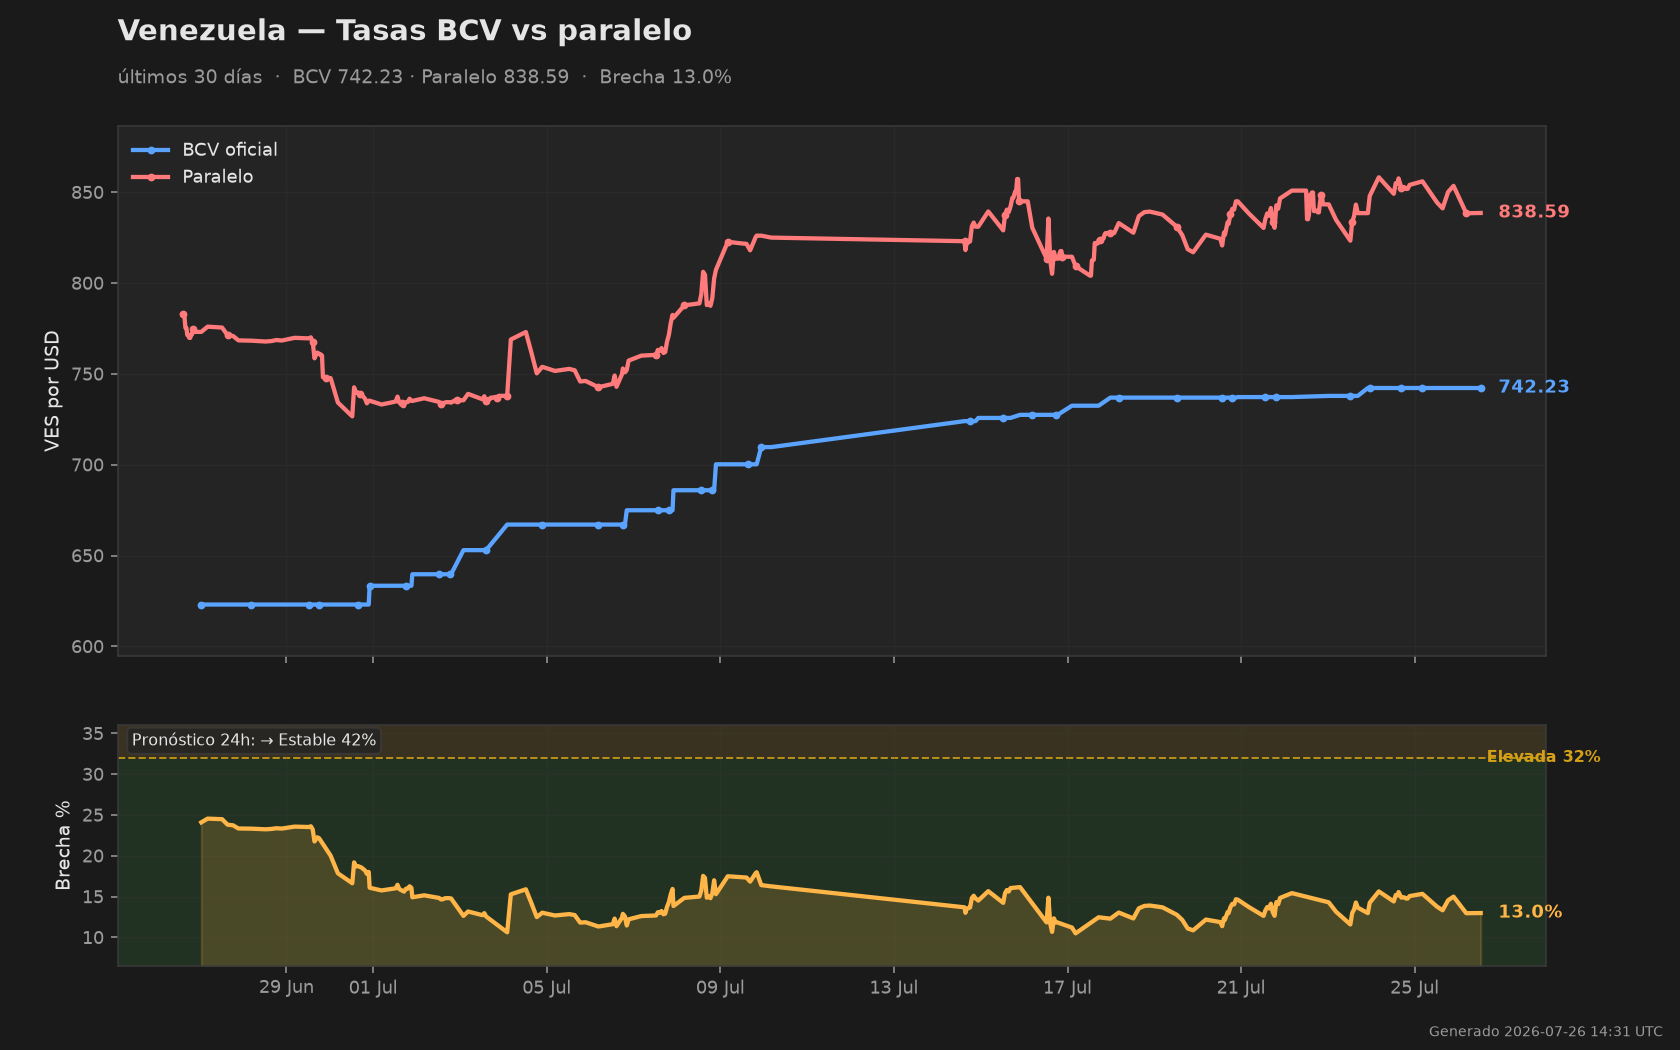
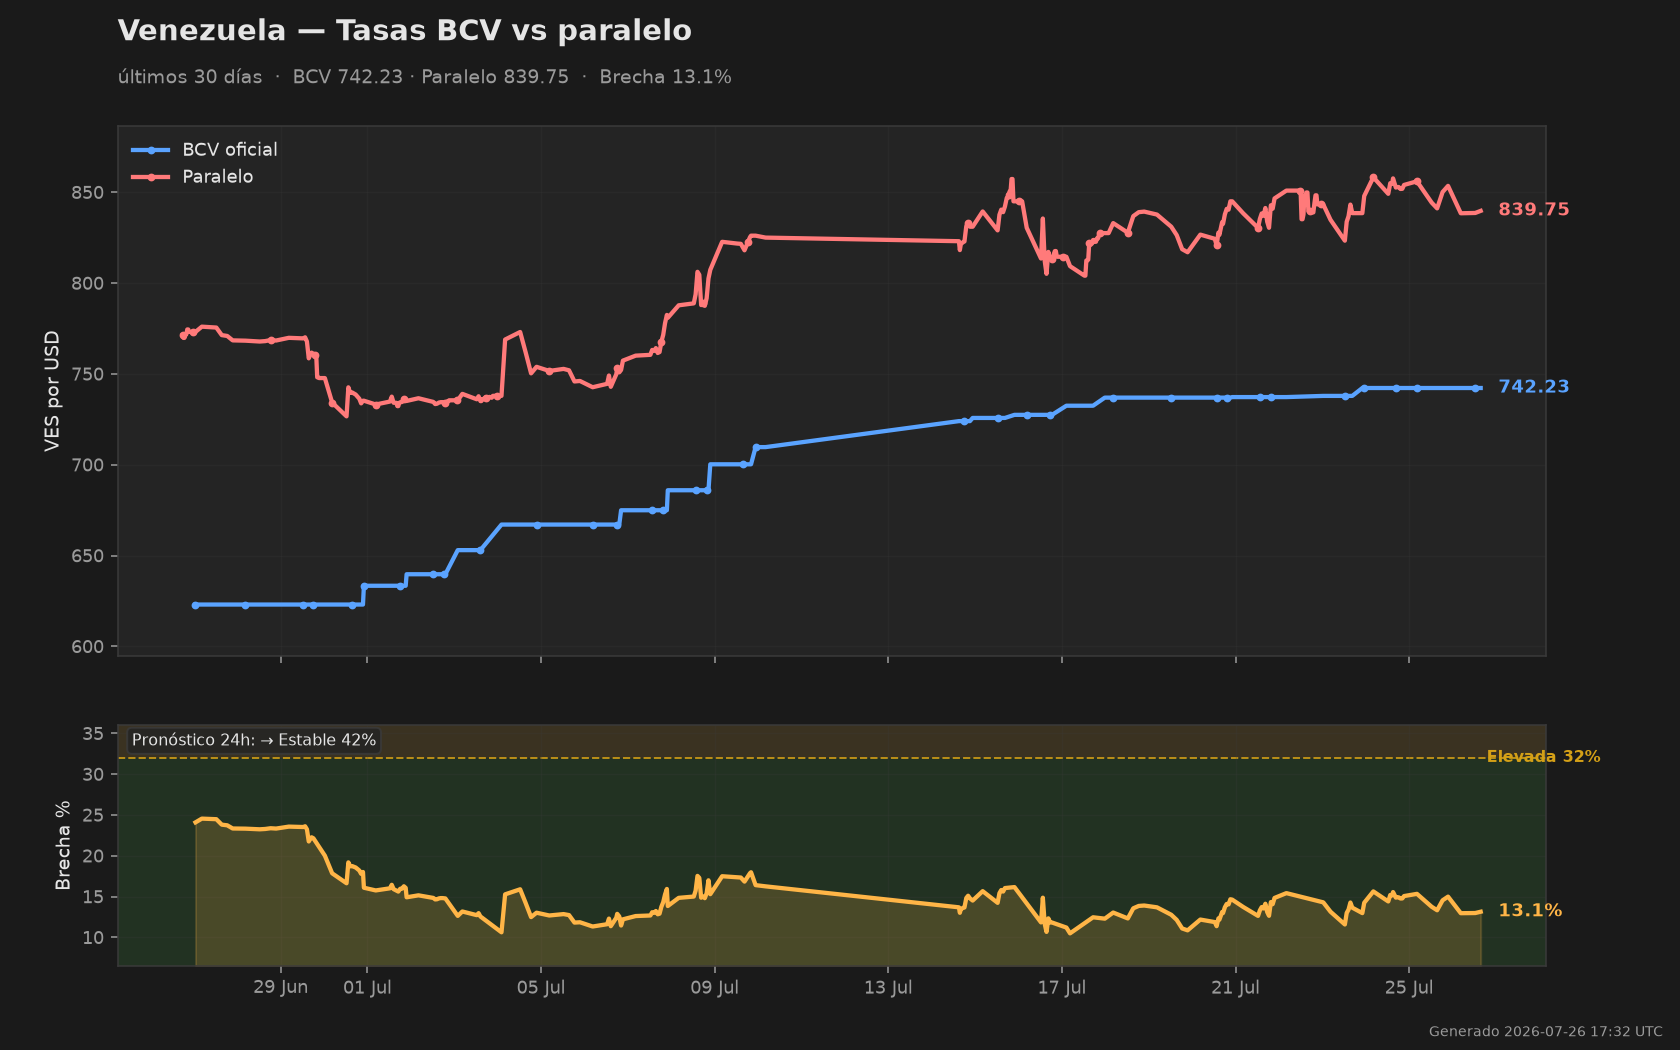
Dashboard update 2026-07-26 17:32 UTC

diff --git a/README.md b/README.md
@@ -11,11 +11,11 @@
 | Metric · Métrica | Value · Valor |
 |---|---|
 | BCV Oficial | **742.23** VES/USD |
-| Paralelo | **838.59** VES/USD |
-| Brecha · Spread | **13.0%** |
-| Binance P2P USDT/VES | **866.00** VES/USDT (+3.3% vs paralelo) |
+| Paralelo | **839.75** VES/USD |
+| Brecha · Spread | **13.1%** |
+| Binance P2P USDT/VES | **865.13** VES/USDT (+3.0% vs paralelo) |
 | **Pronóstico 24h · 24h Forecast** | **↑ Ensanchando · Widening (48%)** |
-| Actualizado · Updated | 2026-07-26 12:30 UTC |
+| Actualizado · Updated | 2026-07-26 15:32 UTC |
 
 ![Venezuela BCV vs parallel rate — last 30 days](data/chart.png)
 
